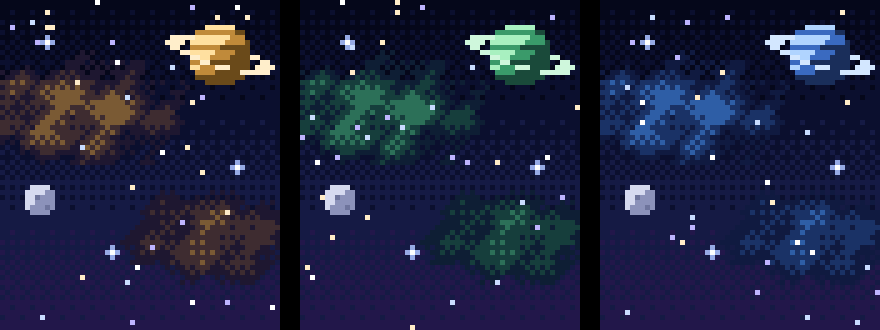
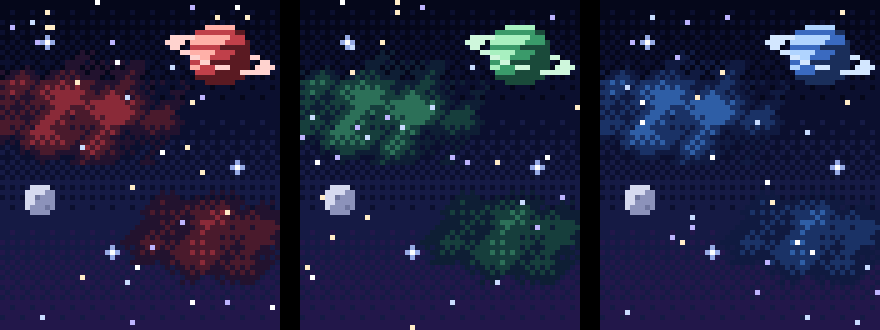
레벨 랭킹 카드를 빨간색으로
Claude-Session: https://claude.ai/code/session_017dXBkxGYgXcz2tGUswvtFj

diff --git a/index.html b/index.html
@@ -777,8 +777,8 @@ header:not(.joinhead){column-gap:4px}header:not(.joinhead)>.logo{margin-right:10
 .reltier .hint{color:var(--text);opacity:.75}
 @media (max-width:560px){.reltiers{grid-template-columns:1fr 1fr}}
 .sellp{font-size:12px;font-weight:400;color:var(--gold);white-space:nowrap}
-.rkgrid{--rk-lv:var(--gold);--rk-life:var(--green);--rk-don:var(--cyan);--rk2:#c9d1dc;--rk3:#d49a6a;display:grid;grid-template-columns:repeat(3,minmax(0,1fr));gap:12px;margin-top:10px}
-:root[data-skin="light"] .rkgrid{--rk-lv:#b8892a;--rk-life:#3d9a68;--rk-don:#2f86c0;--rk2:#76808f;--rk3:#b0673a}
+.rkgrid{--rk-lv:#e0606a;--rk-life:var(--green);--rk-don:var(--cyan);--rk2:#c9d1dc;--rk3:#d49a6a;display:grid;grid-template-columns:repeat(3,minmax(0,1fr));gap:12px;margin-top:10px}
+:root[data-skin="light"] .rkgrid{--rk-lv:#c8323c;--rk-life:#3d9a68;--rk-don:#2f86c0;--rk2:#76808f;--rk3:#b0673a}
 .rkcard{--c:var(--gold);display:flex;flex-direction:column;gap:8px;padding:12px;background:linear-gradient(180deg,color-mix(in srgb,var(--c) 9%,var(--panel2)),var(--panel2) 140px);border:1px solid var(--line);border-top:3px solid var(--c);min-width:0}
 :root[data-skin="light"] .rkcard{background:linear-gradient(180deg,color-mix(in srgb,var(--c) 13%,#fff),#fcfbf8 150px);border-color:#e4dfd5;border-top-color:var(--c);box-shadow:0 3px 0 #e2dccf,0 6px 14px rgba(120,100,70,.08)}
 .rkcard>.lbl{color:var(--c)!important;font-weight:700}
@@ -4855,7 +4855,7 @@ function rankRows(k){const all=orgAll().filter(([,p])=>p&&p.nick);let rows;
   else if(k==='don'){const m={};SHIPDON.forEach(d=>{if(d.uid)m[d.uid]=(m[d.uid]||0)+(+d.n||0)});rows=all.filter(([id])=>m[id]>0).map(([id,p])=>[id,p,m[id],`재료 ${m[id].toLocaleString()}개`])}
   return rows.sort((a,b)=>b[2]-a[2])}
 // gold thrones for the #1 stage, velvet in the card's colour (throne.py)
[3 lines of base64/hex data omitted]
 function rankCard([k,n,c]){const rows=rankRows(k),top=rows[0],mi=rows.findIndex(r=>r[0]===uid);
   const nm=(id,p)=>`<button class="namebtn" data-act="profopen" data-k="${esc(id)}">${esc(p.nick||'단원')}${id===uid?' (나)':''}</button>`;
